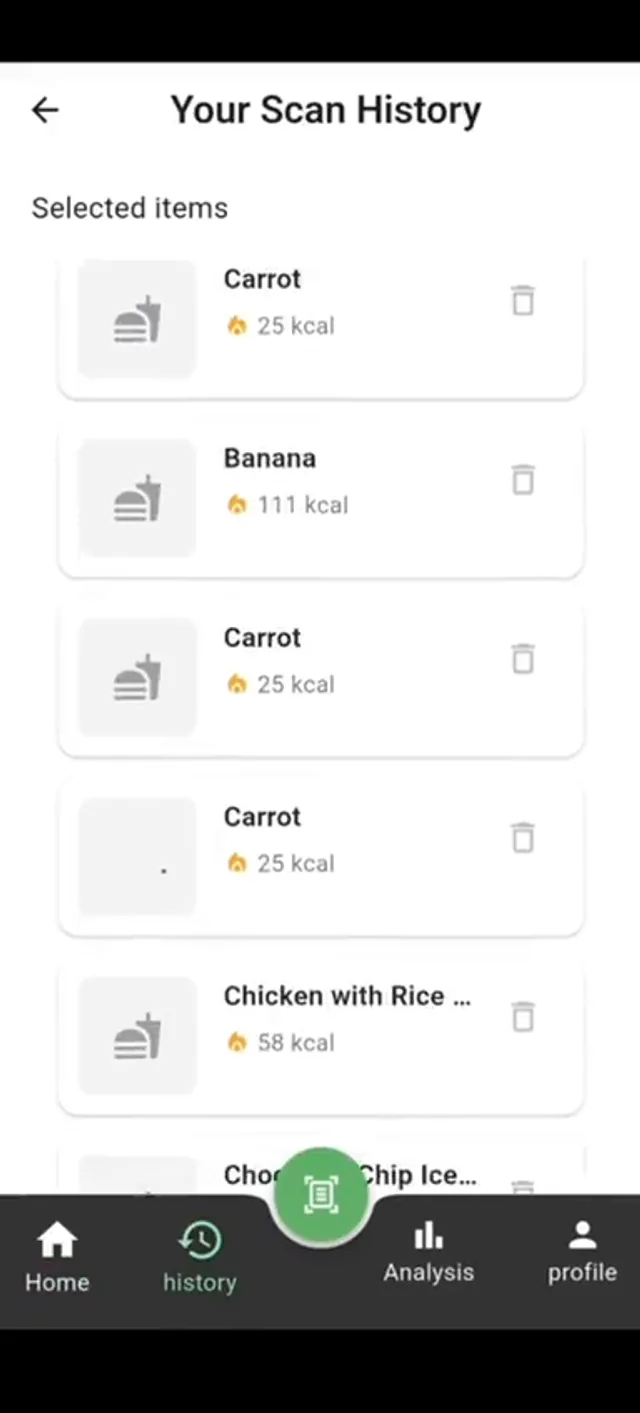
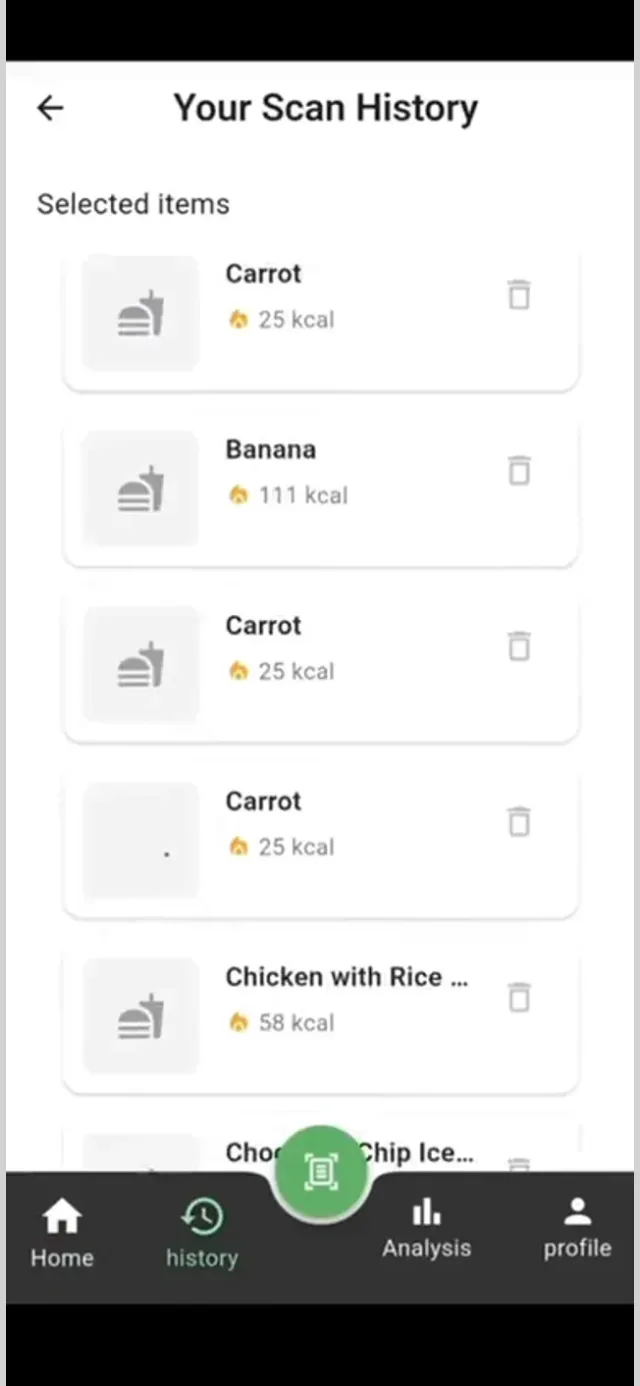
One mobile mockup system across every project
Rename DeviceFrame to MobileMockup and route all project media through it, so
screenshots, design frames and the FoodLens recording share one bezel, radius,
border, shadow, hover and reveal. Add a fit option for sources that are not
9:19.5, and normalise every still to 640x1386 at the asset level instead, so
nothing is stretched or cropped.

Add the Notes app and the Travel design frames as full showcases, cut tight so
the emulator's own bezel no longer reads as a phone inside a phone. Travel's
frames are captioned as the design spec and credited to the designer, never as
screenshots of the app, and link out to the published Figma file.

Trim VCare to the six authenticated screens that tell the booking story, and
promote Notes out of the "more projects" list so all six projects present
identically.

diff --git a/src/data/projects.ts b/src/data/projects.ts
@@ -3,10 +3,16 @@
  *
  * ACCURACY NOTES — read before editing:
  *
- * Every screenshot referenced here was captured by building the app for web
- * from its own source and driving the real running app. Nothing is a mockup.
- * Live data in the Potter Library and CineVerse shots comes from the real
- * potterapi and TMDB endpoints the apps call.
+ * Every screenshot referenced here was captured from a real running app, not
+ * mocked up. Most were captured by building the app for web from its own
+ * source; the Notes shots come from an Android emulator, because sqflite has
+ * no web implementation. Live data in the Potter Library and CineVerse shots
+ * comes from the real potterapi and TMDB endpoints the apps call.
+ *
+ * The one exception is Travel Booking, which has no runnable web build: its
+ * three frames are the published UI design the app implements, captioned and
+ * noted as the design spec and credited to the designer. They must never be
+ * recaptioned as screenshots of the app.
  *
  * The FoodLens clip is a screen recording of the real app on a device. It is
  * trimmed to 37s-67s of the original and stripped of audio, because the
@@ -36,6 +42,8 @@ export type MediaItem =
   | {
       kind: 'image';
       src: string;
+      /** 'contain' for a source whose shape is not 9:19.5, so it is letterboxed rather than clipped. */
+      fit?: 'cover' | 'contain';
       alt: string;
       /** Short caption shown under the frame. */
       caption: string;
@@ -63,6 +71,8 @@ export type Project = {
   featured?: boolean;
   caseStudy?: boolean;
   repo?: string;
+  /** Extra actions beside the repo button. Only real destinations belong here. */
+  links?: { label: string; href: string; icon?: 'github' | 'arrow-up-right' | 'code' }[];
   /** Rendered as an accent-coloured mark when there are no screenshots. */
   logo?: { src: string; alt: string };
   problem: string;
@@ -143,30 +153,42 @@ export const featuredProjects: Project[] = [
     media: [
       {
         kind: 'image',
-        src: '/projects/vcare-onboarding.webp',
-        alt: 'VCare onboarding screen with the app logo and a Get Started button',
-        caption: 'Onboarding',
+        src: '/projects/vcare-home.webp',
+        alt: 'VCare home screen with a search field, a Find Nearby banner, a doctor-specialties row and a recommended-doctors list',
+        caption: 'Home',
       },
       {
         kind: 'image',
-        src: '/projects/vcare-signin.webp',
-        alt: 'VCare sign-in screen with email and password fields in dark mode',
-        caption: 'Sign in',
+        src: '/projects/vcare-search.webp',
+        alt: 'VCare doctor search filtered to cardiology, showing six results with rate and location',
+        caption: 'Search & filter',
       },
       {
         kind: 'image',
-        src: '/projects/vcare-signup.webp',
-        alt: 'VCare create-account screen with name, email, phone, gender and password fields',
-        caption: 'Create account',
+        src: '/projects/vcare-doctor-details.webp',
+        alt: 'VCare doctor details screen with the consultation fee, working hours, an about section and a Book Appointment button',
+        caption: 'Doctor details',
       },
       {
         kind: 'image',
-        src: '/projects/vcare-forgot-password.webp',
-        alt: 'VCare forgot-password screen',
-        caption: 'Password reset',
+        src: '/projects/vcare-booking.webp',
+        alt: 'VCare book-appointment screen with a date strip, a grid of times, a notes field and a Confirm Booking button',
+        caption: 'Booking',
+      },
+      {
+        kind: 'image',
+        src: '/projects/vcare-appointments.webp',
+        alt: 'VCare my-appointments list with pending bookings showing doctor, specialty, date and time',
+        caption: 'My appointments',
+      },
+      {
+        kind: 'image',
+        src: '/projects/vcare-ai-assistant.webp',
+        alt: 'VCare AI assistant screen with a medical-advice disclaimer, suggested questions and a message field',
+        caption: 'AI assistant',
       },
     ],
-    note: 'Screenshots cover the pre-authentication flow. The doctor, booking and assistant screens sit behind a login, so they are described here rather than shown.',
+    note: 'Screenshots are the running app driven end to end, signed in as a test account against a seeded database — the doctor names, fees and appointment times are generated fixture data, not real clinic listings.',
   },
 
   {
@@ -306,6 +328,13 @@ export const featuredProjects: Project[] = [
     role: 'Sole developer',
     featured: true,
     repo: 'https://github.com/mohamdhassan1/Travel',
+    links: [
+      {
+        label: 'UI design on Figma',
+        href: 'https://www.figma.com/community/file/1091615514005406765/aspen-travel-app-exploration-mobile-app-design',
+        icon: 'code',
+      },
+    ],
     problem:
       'A travel app needs accounts before it needs anything else: people have to sign in, browse destinations, open a trip and book it, with their data following them between sessions.',
     solution:
@@ -338,8 +367,27 @@ export const featuredProjects: Project[] = [
       },
     ],
     stack: ['Flutter', 'Dart', 'BLoC', 'Firebase Auth', 'Cloud Firestore', 'SQLite', 'SharedPreferences'],
-    media: [],
-    note: 'No screenshots: the app needs a Firebase web configuration that is not in the repository, so it could not be run to capture real screens, and the design file belongs to its original author rather than to this project. Nothing has been mocked up in their place. The screens listed above were read from the app’s own source.',
+    media: [
+      {
+        kind: 'image',
+        src: '/projects/travel-hero.webp',
+        alt: 'Frame from the Aspen travel UI design: a full-bleed mountain photograph over the words Plan your Luxurious Vacation and an Explore button',
+        caption: 'Design spec — onboarding',
+      },
+      {
+        kind: 'image',
+        src: '/projects/travel-explore.webp',
+        alt: 'Frame from the Aspen travel UI design: an explore screen with a location selector, a search field, category chips and Popular and Recommended destination rails',
+        caption: 'Design spec — explore',
+      },
+      {
+        kind: 'image',
+        src: '/projects/travel-detail.webp',
+        alt: 'Frame from the Aspen travel UI design: a destination detail screen with a hero photograph, rating, description, facilities row, price and a Book Now button',
+        caption: 'Design spec — destination detail',
+      },
+    ],
+    note: 'The three frames above are the published Aspen UI design this app implements — the spec, not the running app, and credited to its author below. The app itself needs a Firebase web configuration that is not in the repository, so it could not be run to capture real screens, and nothing has been mocked up to look like one. The screens listed above were read from the app’s own source.',
   },
 
   {
@@ -403,9 +451,7 @@ export const featuredProjects: Project[] = [
     ],
     note: 'The clip is a screen recording of the real app, trimmed to the tracking and scanning flow. The public repository holds the Laravel backend; the Flutter client is not pushed. The backend, data model and endpoints above were read from the repository. The mobile stack, the team role and the YOLOv11 accuracy figure come from the CV and the project documentation.',
   },
-];
 
-export const moreProjects: Project[] = [
   {
     slug: 'notes',
     name: 'Notes App',
@@ -435,7 +481,34 @@ export const moreProjects: Project[] = [
       },
     ],
     stack: ['Flutter', 'Dart', 'SQLite', 'sqflite', 'Lottie'],
-    media: [],
-    note: 'No screenshots: sqflite has no web implementation, so the app cannot be run in a browser to capture real screens.',
+    media: [
+      {
+        kind: 'image',
+        src: '/projects/notes-onboarding.webp',
+        alt: 'Notes app onboarding screen with a Lottie illustration and a Get Started button',
+        caption: 'Onboarding',
+      },
+      {
+        kind: 'image',
+        src: '/projects/notes-list.webp',
+        alt: 'Notes app home screen with saved notes in a staggered grid of coloured cards',
+        caption: 'Note list',
+      },
+      {
+        kind: 'image',
+        src: '/projects/notes-new-note.webp',
+        alt: 'Notes app new-note screen with title and description fields and a save action',
+        caption: 'New note',
+      },
+      {
+        kind: 'image',
+        src: '/projects/notes-delete.webp',
+        alt: 'Notes app delete-confirmation dialog over the note grid',
+        caption: 'Delete confirmation',
+      },
+    ],
+    note: 'Screenshots are the running app on an Android emulator. sqflite has no web implementation, so these could not be captured through the web build used for the other projects.',
   },
 ];
+
+export const moreProjects: Project[] = [];

diff --git a/README.md b/README.md
@@ -80,13 +80,26 @@ stripped, and written as both MP4 (H.264) and WebM (VP9):
 ffmpeg -ss 37 -to 67.2 -i original.mp4 -an -c:v libx264 -profile:v main -pix_fmt yuv420p -crf 30 -preset slow -movflags +faststart -vf "scale=384:-2,fps=24" public/projects/foodlens-demo.mp4
 ```
 
+## Normalising media
+
+Every frame ships at exactly 640x1386 (375:812). `scripts/normalize-media.mjs` fits each
+capture inside that canvas without distorting it and pads any leftover space with a colour
+sampled from the capture’s own edge, so nothing is ever stretched or cropped:
+
+```bash
+node scripts/normalize-media.mjs
+```
+
+Sources live outside the repo in the capture workspace. Most projects need no padding at all;
+the Notes frames pad 38px horizontally and Travel 1-2px vertically.
+
 ## Regenerating screenshots
 
 Screenshots in `public/projects/` are WebP, 640px wide, produced from 1125×2436 captures.
-`scripts-optimize.mjs` does the conversion:
+`scripts/optimize-screenshots.mjs` does the conversion:
 
 ```bash
-node scripts-optimize.mjs
+node scripts/optimize-screenshots.mjs
 ```
 
 It reads raw PNGs from the capture directory and writes optimised WebP into `public/projects/`.
